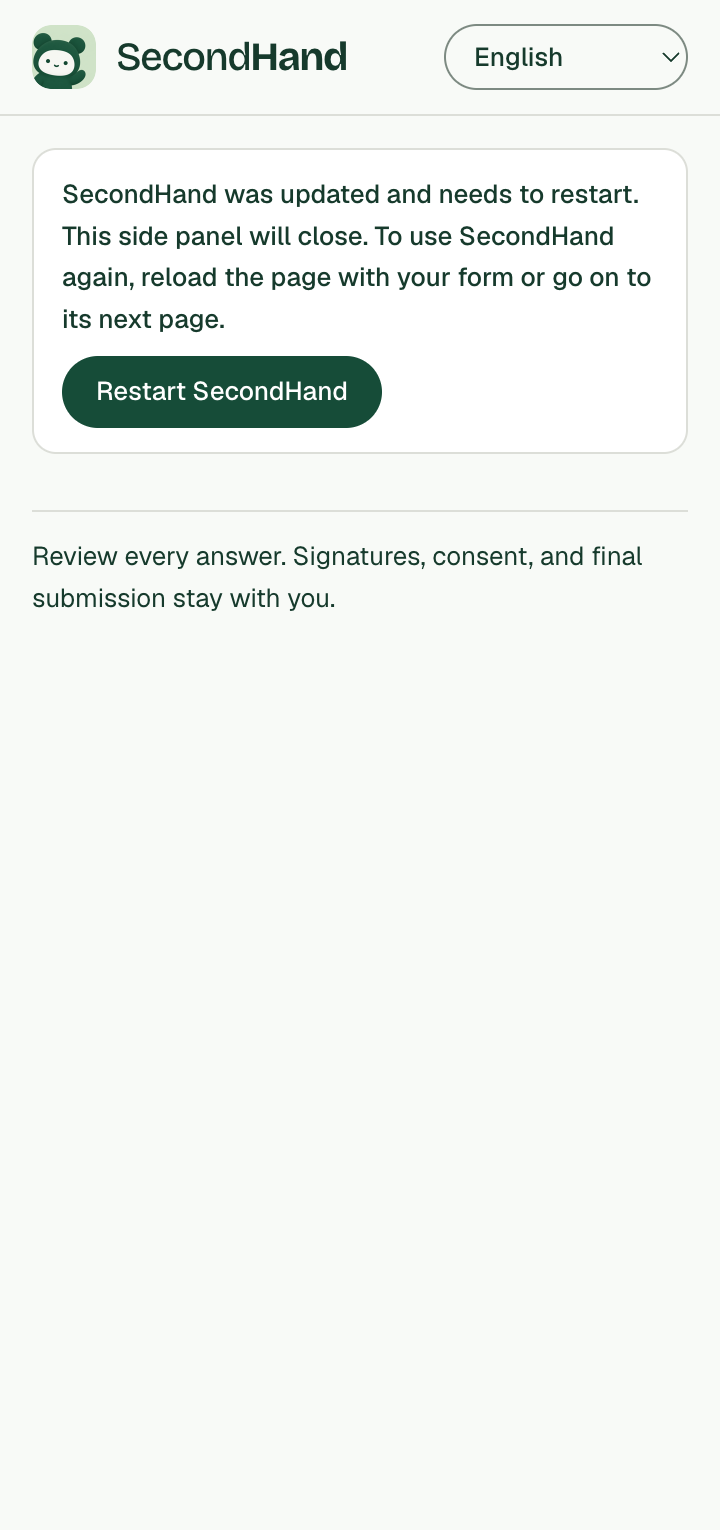
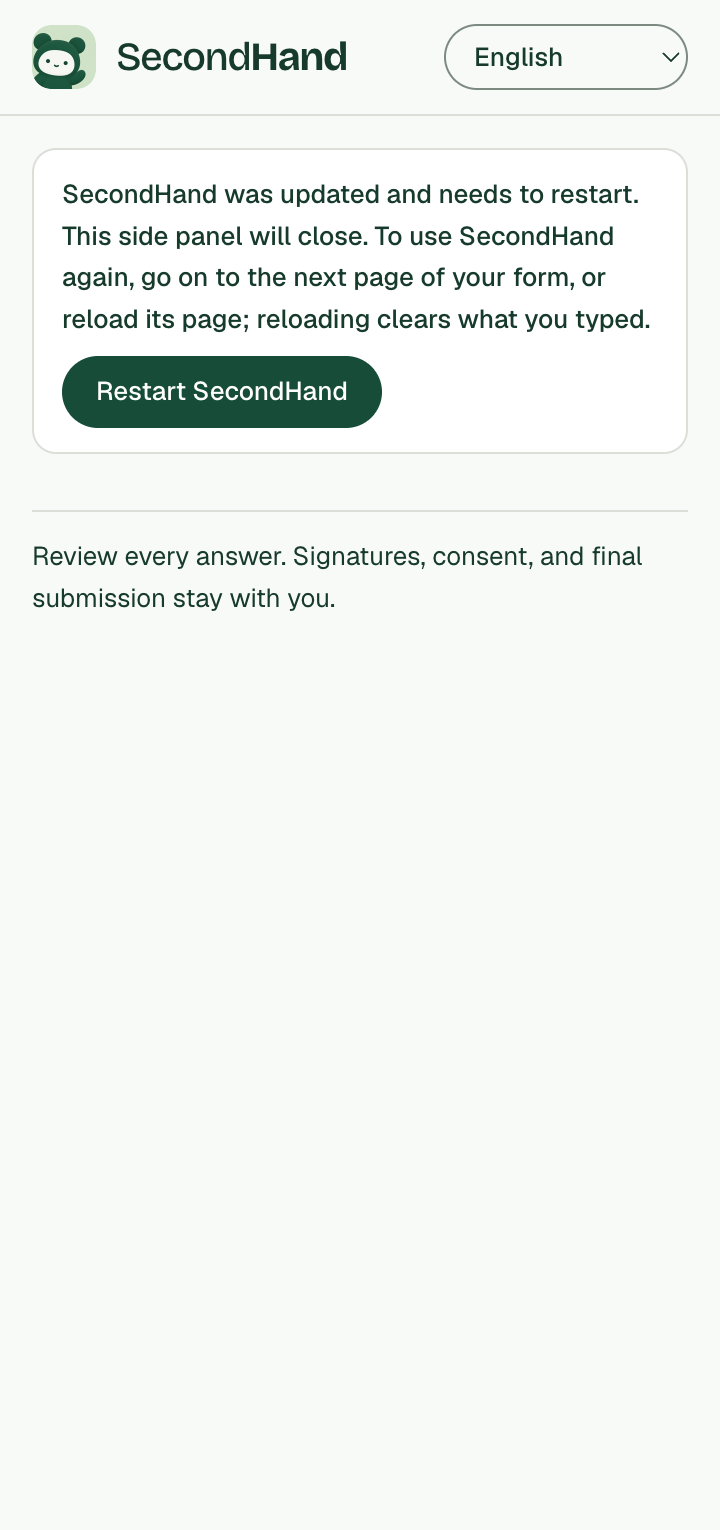
fix: plainer update notices that say reloading clears what you typed
"Restart it" read as restarting the computer, "SecondHand is back on the
next page" puzzled people, and the side panel's notice said to reload
without saying that clears what was typed, as the card's did. The card
now says "Click Restart, then reload or go to the next page", then
"SecondHand works again on the next page. To use it here, reload (the
round arrow by the address bar); that clears what you typed.", and the
side panel's notice ends "reloading clears what you typed". Each fits
the space its card has wherever the old words did; all six languages.

Changed region(s): [[0.0917, 0.1536, 0.9167, 0.215]]

diff --git a/extension/strings.js b/extension/strings.js
@@ -47,16 +47,16 @@
     'widget.offerTitle': 'Show this page’s questions in English in SecondHand’s side panel',
     'widget.languageCheckFailed': 'SecondHand couldn’t check this page’s language.',
     'widget.outdated': 'SecondHand was updated.',
-    'widget.outdatedLong': 'SecondHand was updated. Restart it, then reload this page or go on to the next one.',
+    'widget.outdatedLong': 'SecondHand was updated. Click Restart, then reload or go to the next page.',
     'widget.restart': 'Restart',
     'widget.restartTitle': 'Restart SecondHand to finish its update. Then reload this page.',
 
     // Pages newer than the worker Chrome still runs. The widget can't ask an outdated worker for a larger frame,
     // so it shows widget.outdated beside its Restart button; the side panel has room for all of this.
-    'panel.outdated': 'SecondHand was updated and needs to restart. This side panel will close. To use SecondHand again, reload the page with your form or go on to its next page.',
+    'panel.outdated': 'SecondHand was updated and needs to restart. This side panel will close. To use SecondHand again, go on to the next page of your form, or reload its page; reloading clears what you typed.',
     'panel.updated': 'SecondHand was updated to match the app on this computer.',
     // A widget left on a page when SecondHand reloaded. It shows the short line when its frame can't hold the long one.
-    'panel.reloadPage': 'SecondHand is back on the next page. To use it here, reload this page (the round arrow by the address bar); that clears what you typed.',
+    'panel.reloadPage': 'SecondHand works again on the next page. To use it here, reload (the round arrow by the address bar); that clears what you typed.',
     'panel.reloadPageShort': 'Reload this page to use SecondHand, or go on to the next page.',
     'panel.restart': 'Restart SecondHand',
     'panel.updateFailed': 'SecondHand couldn’t update its extension files. In the SecondHand app, open Chrome extension and click Refresh extension files. Then open chrome://extensions and click the reload arrow on SecondHand.',
@@ -425,13 +425,13 @@
     'widget.offerTitle': 'Mostrar las preguntas de esta página en español en el panel lateral de SecondHand',
     'widget.languageCheckFailed': 'SecondHand no pudo comprobar el idioma de esta página.',
     'widget.outdated': 'SecondHand se actualizó.',
-    'widget.outdatedLong': 'SecondHand se actualizó. Reinícielo y luego recargue esta página o pase a la siguiente.',
+    'widget.outdatedLong': 'SecondHand se actualizó. Haga clic en “Reiniciar” y luego recargue o pase a la página siguiente.',
     'widget.restart': 'Reiniciar',
     'widget.restartTitle': 'Reinicie SecondHand para terminar su actualización. Luego recargue esta página.',
 
-    'panel.outdated': 'SecondHand se actualizó y necesita reiniciarse. Este panel lateral se cerrará. Para volver a usar SecondHand, recargue la página de su formulario o pase a la página siguiente.',
+    'panel.outdated': 'SecondHand se actualizó y necesita reiniciarse. Este panel lateral se cerrará. Para volver a usar SecondHand, pase a la página siguiente de su formulario o recargue la página; recargarla borra lo que escribió.',
     'panel.updated': 'SecondHand se actualizó para seguir funcionando con la aplicación de esta computadora.',
-    'panel.reloadPage': 'SecondHand vuelve en la página siguiente. Para usarlo aquí, recargue esta página (la flecha redonda junto a la barra de direcciones); eso borra lo que escribió.',
+    'panel.reloadPage': 'SecondHand aparecerá otra vez en la página siguiente. Para usarlo aquí, recargue (la flecha redonda junto a la barra de direcciones); eso borra lo que escribió.',
     'panel.reloadPageShort': 'Recargue esta página para usar SecondHand, o pase a la página siguiente.',
     'panel.restart': 'Reiniciar SecondHand',
     'panel.updateFailed': 'SecondHand no pudo actualizar los archivos de su extensión. En la aplicación SecondHand, abra “Chrome extension” y haga clic en “Refresh extension files”. Luego abra chrome://extensions y haga clic en la flecha de recargar de SecondHand.',
@@ -797,13 +797,13 @@
     'widget.offerTitle': 'Hiển thị các câu hỏi của trang này bằng tiếng Việt trong bảng bên của SecondHand',
     'widget.languageCheckFailed': 'SecondHand không kiểm tra được ngôn ngữ của trang này.',
     'widget.outdated': 'SecondHand đã được cập nhật.',
-    'widget.outdatedLong': 'SecondHand đã được cập nhật. Hãy khởi động lại, rồi tải lại trang này hoặc sang trang kế tiếp.',
+    'widget.outdatedLong': 'SecondHand đã được cập nhật. Bấm “Khởi động lại”, rồi tải lại hoặc sang trang kế tiếp.',
     'widget.restart': 'Khởi động lại',
     'widget.restartTitle': 'Khởi động lại SecondHand để hoàn tất cập nhật. Sau đó hãy tải lại trang này.',
 
-    'panel.outdated': 'SecondHand đã được cập nhật và cần khởi động lại. Bảng bên này sẽ đóng. Để dùng lại SecondHand, hãy tải lại trang có biểu mẫu của bạn hoặc chuyển sang trang kế tiếp.',
+    'panel.outdated': 'SecondHand đã được cập nhật và cần khởi động lại. Bảng bên này sẽ đóng. Để dùng lại SecondHand, hãy chuyển sang trang kế tiếp của biểu mẫu, hoặc tải lại trang đó; tải lại sẽ xóa những gì bạn đã nhập.',
     'panel.updated': 'SecondHand đã được cập nhật cho khớp với ứng dụng trên máy này.',
-    'panel.reloadPage': 'SecondHand hoạt động lại ở trang kế tiếp. Để dùng ở trang này, hãy tải lại trang (mũi tên tròn cạnh thanh địa chỉ); việc đó xóa những gì bạn đã nhập.',
+    'panel.reloadPage': 'SecondHand hoạt động lại ở trang kế tiếp. Để dùng ở đây, hãy tải lại (mũi tên tròn cạnh thanh địa chỉ); việc đó xóa những gì bạn đã nhập.',
     'panel.reloadPageShort': 'Hãy tải lại trang này để dùng SecondHand, hoặc sang trang kế tiếp.',
     'panel.restart': 'Khởi động lại SecondHand',
     'panel.updateFailed': 'SecondHand không thể cập nhật các tệp tiện ích của mình. Trong ứng dụng SecondHand, hãy mở “Chrome extension” và bấm “Refresh extension files”. Sau đó mở chrome://extensions và bấm mũi tên tải lại trên SecondHand.',
@@ -1170,13 +1170,13 @@
     'widget.offerTitle': '在 SecondHand 侧边栏中用中文显示此页面的问题',
     'widget.languageCheckFailed': 'SecondHand 无法检查此页面的语言。',
     'widget.outdated': 'SecondHand 已更新。',
-    'widget.outdatedLong': 'SecondHand 已更新。请重新启动它，然后重新加载此页面或进入下一页。',
+    'widget.outdatedLong': 'SecondHand 已更新。请点击“重新启动”，然后重新加载或进入下一页。',
     'widget.restart': '重新启动',
     'widget.restartTitle': '重新启动 SecondHand 以完成更新，然后重新加载此页面。',
 
-    'panel.outdated': 'SecondHand 已更新，需要重新启动。此侧边栏将会关闭。要继续使用 SecondHand，请重新加载表格所在的页面，或进入它的下一页。',
+    'panel.outdated': 'SecondHand 已更新，需要重新启动。此侧边栏将会关闭。要继续使用 SecondHand，请进入表格的下一页，或重新加载该页面；重新加载会清除您输入的内容。',
     'panel.updated': 'SecondHand 已更新，与本机上的应用保持一致。',
-    'panel.reloadPage': 'SecondHand 会在下一页恢复。要在此页使用，请重新加载此页面（地址栏旁的圆形箭头）；这会清除您输入的内容。',
+    'panel.reloadPage': 'SecondHand 会在下一页重新出现。要在此页使用，请重新加载（地址栏旁的圆形箭头）；这会清除您输入的内容。',
     'panel.reloadPageShort': '请重新加载此页面以使用 SecondHand，或进入下一页。',
     'panel.restart': '重新启动 SecondHand',
     'panel.updateFailed': 'SecondHand 无法更新其扩展程序文件。请在 SecondHand 应用中打开“Chrome extension”，点击“Refresh extension files”。然后打开 chrome://extensions，点击 SecondHand 上的重新加载箭头。',
@@ -1543,13 +1543,13 @@
     'widget.offerTitle': 'Afficher les questions de cette page en français dans le panneau latéral de SecondHand',
     'widget.languageCheckFailed': 'SecondHand n’a pas pu vérifier la langue de cette page.',
     'widget.outdated': 'SecondHand a été mis à jour.',
-    'widget.outdatedLong': 'SecondHand a été mis à jour. Redémarrez-le, puis rechargez cette page ou passez à la suivante.',
+    'widget.outdatedLong': 'SecondHand a été mis à jour. Cliquez sur « Redémarrer », puis rechargez ou passez à la page suivante.',
     'widget.restart': 'Redémarrer',
     'widget.restartTitle': 'Redémarrez SecondHand pour terminer sa mise à jour. Rechargez ensuite cette page.',
 
-    'panel.outdated': 'SecondHand a été mis à jour et doit redémarrer. Ce panneau latéral va se fermer. Pour utiliser de nouveau SecondHand, rechargez la page de votre formulaire ou passez à sa page suivante.',
+    'panel.outdated': 'SecondHand a été mis à jour et doit redémarrer. Ce panneau latéral va se fermer. Pour utiliser de nouveau SecondHand, passez à la page suivante de votre formulaire, ou rechargez sa page ; recharger efface ce que vous avez saisi.',
     'panel.updated': 'SecondHand a été mis à jour pour correspondre à l’application de cet ordinateur.',
-    'panel.reloadPage': 'SecondHand revient à la page suivante. Pour l’utiliser ici, rechargez cette page (la flèche ronde près de la barre d’adresse) ; cela efface ce que vous avez saisi.',
+    'panel.reloadPage': 'SecondHand fonctionnera de nouveau à la page suivante. Pour l’utiliser ici, rechargez (la flèche ronde près de la barre d’adresse) ; cela efface ce que vous avez saisi.',
     'panel.reloadPageShort': 'Rechargez cette page pour utiliser SecondHand, ou passez à la page suivante.',
     'panel.restart': 'Redémarrer SecondHand',
     'panel.updateFailed': 'SecondHand n’a pas pu mettre à jour les fichiers de son extension. Dans l’application SecondHand, ouvrez « Chrome extension » et cliquez sur « Refresh extension files ». Ouvrez ensuite chrome://extensions et cliquez sur la flèche de rechargement de SecondHand.',
@@ -1916,13 +1916,13 @@
     'widget.offerTitle': 'عرض أسئلة هذه الصفحة بالعربية في اللوحة الجانبية لـ SecondHand',
     'widget.languageCheckFailed': 'لم يتمكن SecondHand من معرفة لغة هذه الصفحة.',
     'widget.outdated': 'تم تحديث SecondHand.',
-    'widget.outdatedLong': 'تم تحديث SecondHand. أعد تشغيله، ثم أعد تحميل هذه الصفحة أو انتقل إلى التالية.',
+    'widget.outdatedLong': 'تم تحديث SecondHand. انقر على “إعادة التشغيل”، ثم أعد التحميل أو انتقل إلى الصفحة التالية.',
     'widget.restart': 'إعادة التشغيل',
     'widget.restartTitle': 'أعد تشغيل SecondHand لإكمال تحديثه، ثم أعد تحميل هذه الصفحة.',
 
-    'panel.outdated': 'تم تحديث SecondHand ويحتاج إلى إعادة التشغيل. ستُغلق هذه اللوحة الجانبية. لاستخدام SecondHand من جديد، أعد تحميل صفحة النموذج أو انتقل إلى صفحتها التالية.',
+    'panel.outdated': 'تم تحديث SecondHand ويحتاج إلى إعادة التشغيل. ستُغلق هذه اللوحة الجانبية. لاستخدام SecondHand من جديد، انتقل إلى الصفحة التالية من نموذجك، أو أعد تحميل صفحته؛ إعادة التحميل تمسح ما كتبته.',
     'panel.updated': 'تم تحديث SecondHand ليطابق التطبيق على هذا الكمبيوتر.',
-    'panel.reloadPage': 'يعود SecondHand في الصفحة التالية. لاستخدامه هنا، أعد تحميل هذه الصفحة (السهم الدائري بجانب شريط العناوين)؛ يمسح ذلك ما كتبته.',
+    'panel.reloadPage': 'يعمل SecondHand من جديد في الصفحة التالية. لاستخدامه هنا، أعد التحميل (السهم الدائري بجانب شريط العناوين)؛ يمسح ذلك ما كتبته.',
     'panel.reloadPageShort': 'أعد تحميل هذه الصفحة لاستخدام SecondHand، أو انتقل إلى الصفحة التالية.',
     'panel.restart': 'إعادة تشغيل SecondHand',
     'panel.updateFailed': 'تعذّر على SecondHand تحديث ملفات إضافته. في تطبيق SecondHand، افتح “Chrome extension” وانقر على “Refresh extension files”. ثم افتح chrome://extensions وانقر على سهم إعادة التحميل في SecondHand.',
